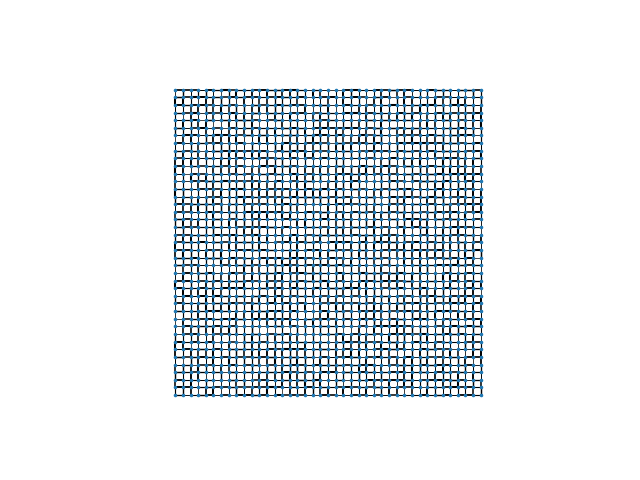
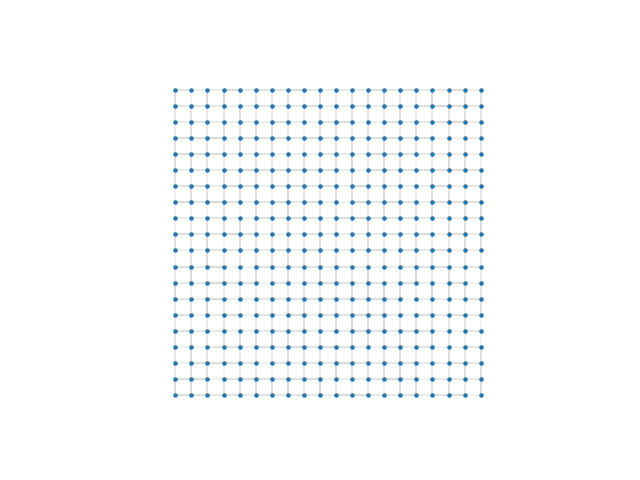
testing  one plate source

Changed region(s): [[0.25, 0.1875, 0.7812, 0.8438]]

diff --git a/Angiogenesis.py b/Angiogenesis.py
@@ -99,12 +99,12 @@ def generate_physical_values(graph, source_value, incidence_matrix, corridor_mod
     if one_capacitor_plates_model:
         source_list = np.zeros(dimension)             # vector from nodes space
         last_index = int(np.sqrt(dimension)-1)
-        nodes_on_one_side = int(np.sqrt(dimension))
-        source_list[int(np.sqrt(dimension) / 2)] = source_value
+        nodes_on_one_side = int(np.sqrt(dimension)/2)
+        source_list[int(np.sqrt(dimension) / 2) - 1] = source_value
         iterator = 0
-        for iterator in range(0, last_index+1):
+        for iterator in range(0, last_index+1, 2):
             print(iterator)
-            source_list[dimension-1-iterator] = -source_value/nodes_on_one_side
+            source_list[dimension-2-iterator] = -source_value/nodes_on_one_side
             iterator += 1
         print(source_list)
         print(dimension)
@@ -364,7 +364,7 @@ def draw_graph(graph, name, pos, conductivity_list, n):
     else:
         #nx.draw_networkx(graph, pos=pos)
         nx.draw_networkx_nodes(graph, pos=pos, node_size=200 / (2 * n))
-        nx.draw_networkx_edges(graph, pos=pos, width=np.float_power(conductivity_list, 1))
+        nx.draw_networkx_edges(graph, pos=pos, width=np.float_power(conductivity_list, 1)/7)
 
     plt.axis('off')
     plt.axis('scaled')

diff --git a/Simulation.py b/Simulation.py
@@ -8,7 +8,7 @@ start_time = time.time()
 hexagonal = 0
 triangular = 0
 
-m = 99
+m = 20
 number_of_nodes = m*m
 #adjacency_matrix = an.generate_random_adjacent_matrix(number_of_nodes)
 # random graph
@@ -43,7 +43,7 @@ an.checking_Kirchhoffs_law(graph, source_list)
 an.draw_graph(graph, "graph", pos, conductivity_list, m)
 #print(edges_data)
 # dK/dt = a*(q / q_hat)^(2*gamma) - b * K + c
-parameters_set = {'a': 2.9, 'b': 1.3, 'gamma': 2/3, 'delta': 1.1, 'nu': 1.1, 'flow_hat': 1.1, 'c': 0.0, 'r': 2, 'dt': 0.01, 'N': 2}
+parameters_set = {'a': 2.9, 'b': 1.3, 'gamma': 2/3, 'delta': 1.1, 'nu': 1.1, 'flow_hat': 1.1, 'c': 0.000001, 'r': 2, 'dt': 0.1, 'N': 200}
 
 graph, conductivity_list = an.run_simulation(m, pos, nodes_data, edges_data, **arguments, **parameters_set, is_scaled=True, with_pruning=False)
 #print(edges_data)
